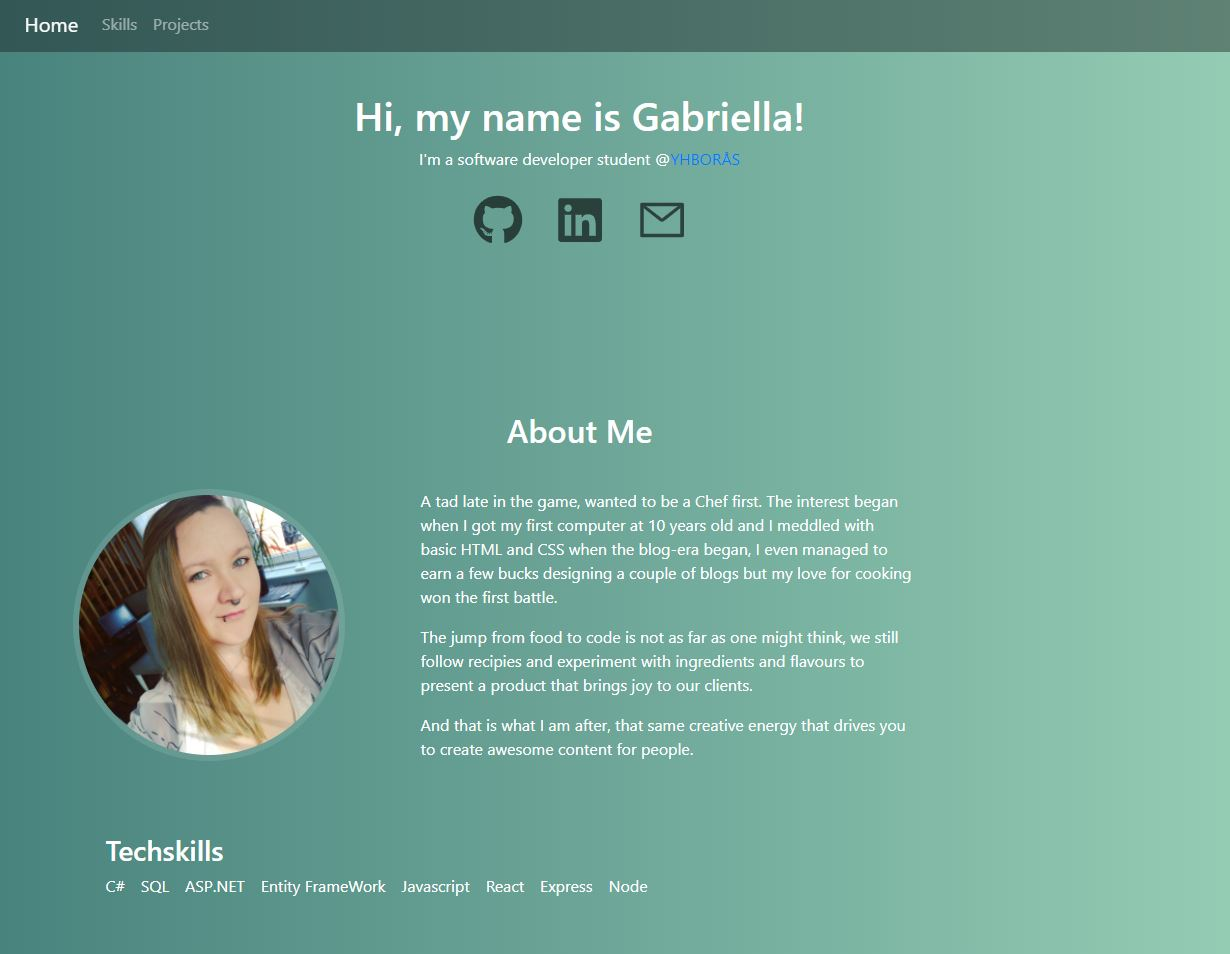
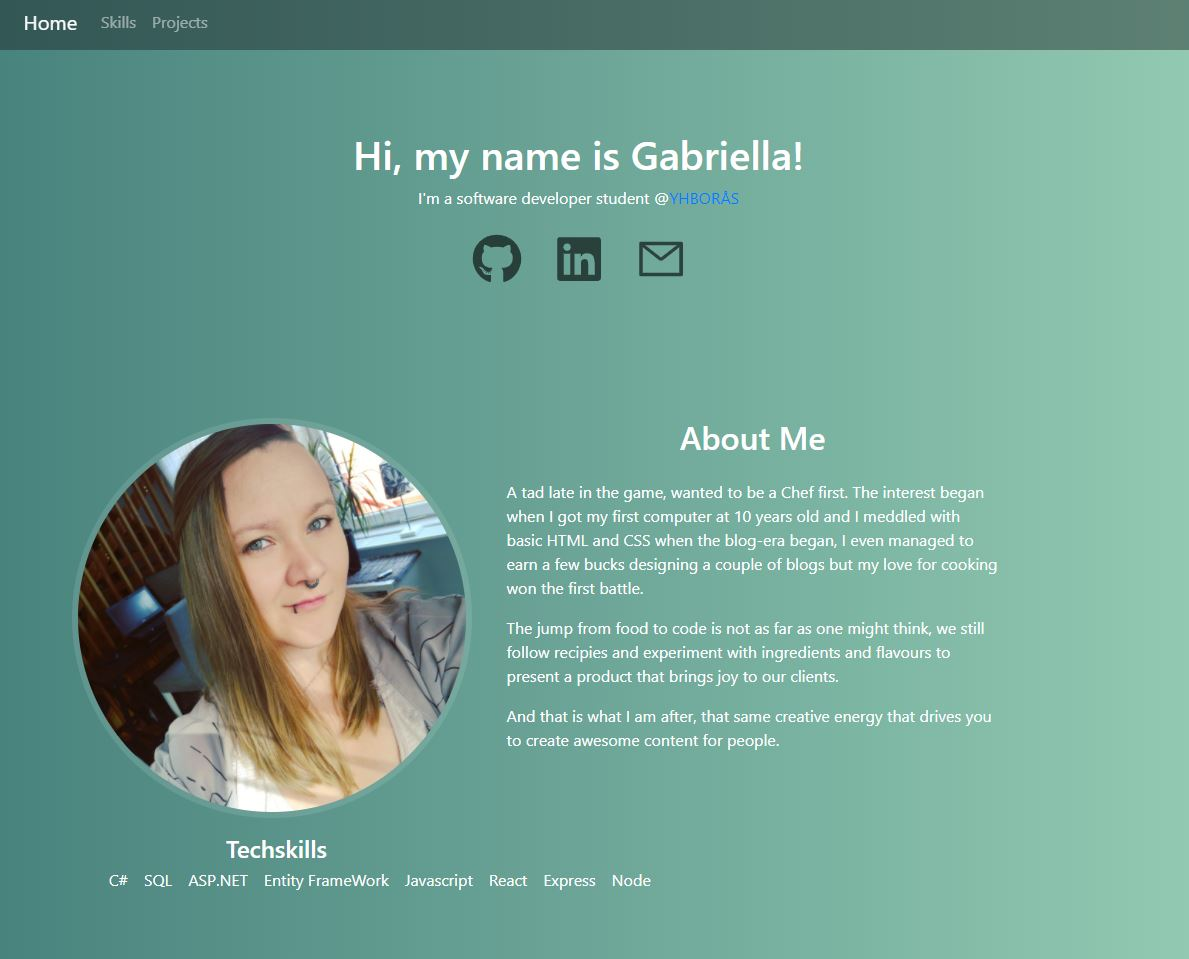
styling about

diff --git a/src/components/About.js b/src/components/About.js
@@ -8,13 +8,12 @@ export default class About extends Component {
     render() {
         return (
             <div className="column">
-                <h2 className="text-center about-title">About Me</h2>
                 <div className="row row-wrap justify-content-evenly" id="About">
-                    <div className="col-lg-4 mb-8" id="profileImage">
+                    <div className="col-lg-5 mb-8" id="profileImage">
                         <img src={profilePic} alt="Profile"></img>
                     </div>
                     <div id="profileText" className=" col-lg-6 mb-2">
-
+                <h2 className="text-center about-title">About Me</h2>
                         <p>
                             A tad late in the game, wanted to be a Chef first.
                             The interest began when I got my first computer at 10 years old and I meddled with basic HTML and CSS when the blog-era began,
@@ -28,10 +27,9 @@ export default class About extends Component {
                             And that is what I am after, that same creative energy that drives you to create awesome content for people.
                         </p>
                     </div>
-                    <section>
-                        <div>
-                            <h3>Techskills</h3>
-                            <ul class="horizontal">
+                    <div className="tech-list">
+                            <h4 className="list-header">Techskills</h4>
+                            <ul className="horizontal">
                                 <li>C#</li>
                                 <li>SQL</li>
                                 <li>ASP.NET</li>
@@ -42,6 +40,20 @@ export default class About extends Component {
                                 <li>Node</li>
                             </ul>
                         </div>
+                    <section>
+                        {/* <div>
+                            <h3 className="list-header">Techskills</h3>
+                            <ul class="horizontal">
+                                <li>C#</li>
+                                <li>SQL</li>
+                                <li>ASP.NET</li>
+                                <li>Entity FrameWork</li>
+                                <li>Javascript</li>
+                                <li>React</li>
+                                <li>Express</li>
+                                <li>Node</li>
+                            </ul>
+                        </div> */}
                                         
                     {/* <div className="row">
                     <div className="col-lg-6 col-sm-6 mb-8">

diff --git a/src/components/css/About.css b/src/components/css/About.css
@@ -4,20 +4,18 @@
     display: flex;
     flex-wrap: wrap;
     flex-direction: row;
-    /* margin-bottom: 5%; */
-
 }
 .about-title{
-  padding: 1em;
+  padding: 0 1em 0.5em 1em;
 }
 #profileHeader{
-    padding:1em 0em 0.5em 2.5em;
+    padding: 1em 0em 0.5em 2.5em;
 }
 
  #profileImage img{
    vertical-align: middle;
-   width: 17em;
-   height: 17em;
+   width: 25em;
+   height: 25em;
    border-radius: 50%;
    border: 6px solid rgba(255, 255, 255, 0.11);
  }
@@ -28,9 +26,23 @@
 }
 
  .skill-cards{
+  
   list-style-type: none;
  }
 
+ /* TECHLIST */
+ .tech-list{
+   display: flex;
+   flex-direction: column;
+   /* justify-content: center;
+   align-items: center; */
+   margin: 1% 1% 1% 5%;
+
+ }
+ .list-header{
+  margin: 1% 1% 1% 21%;
+
+ }
  ul.horizontal,
  ul.horizontal li {
      margin: 0;
@@ -46,6 +58,7 @@
      margin: 0 1em 1em 0;
      text-align: center;
  }
+ /* --------- */
 
 
 
